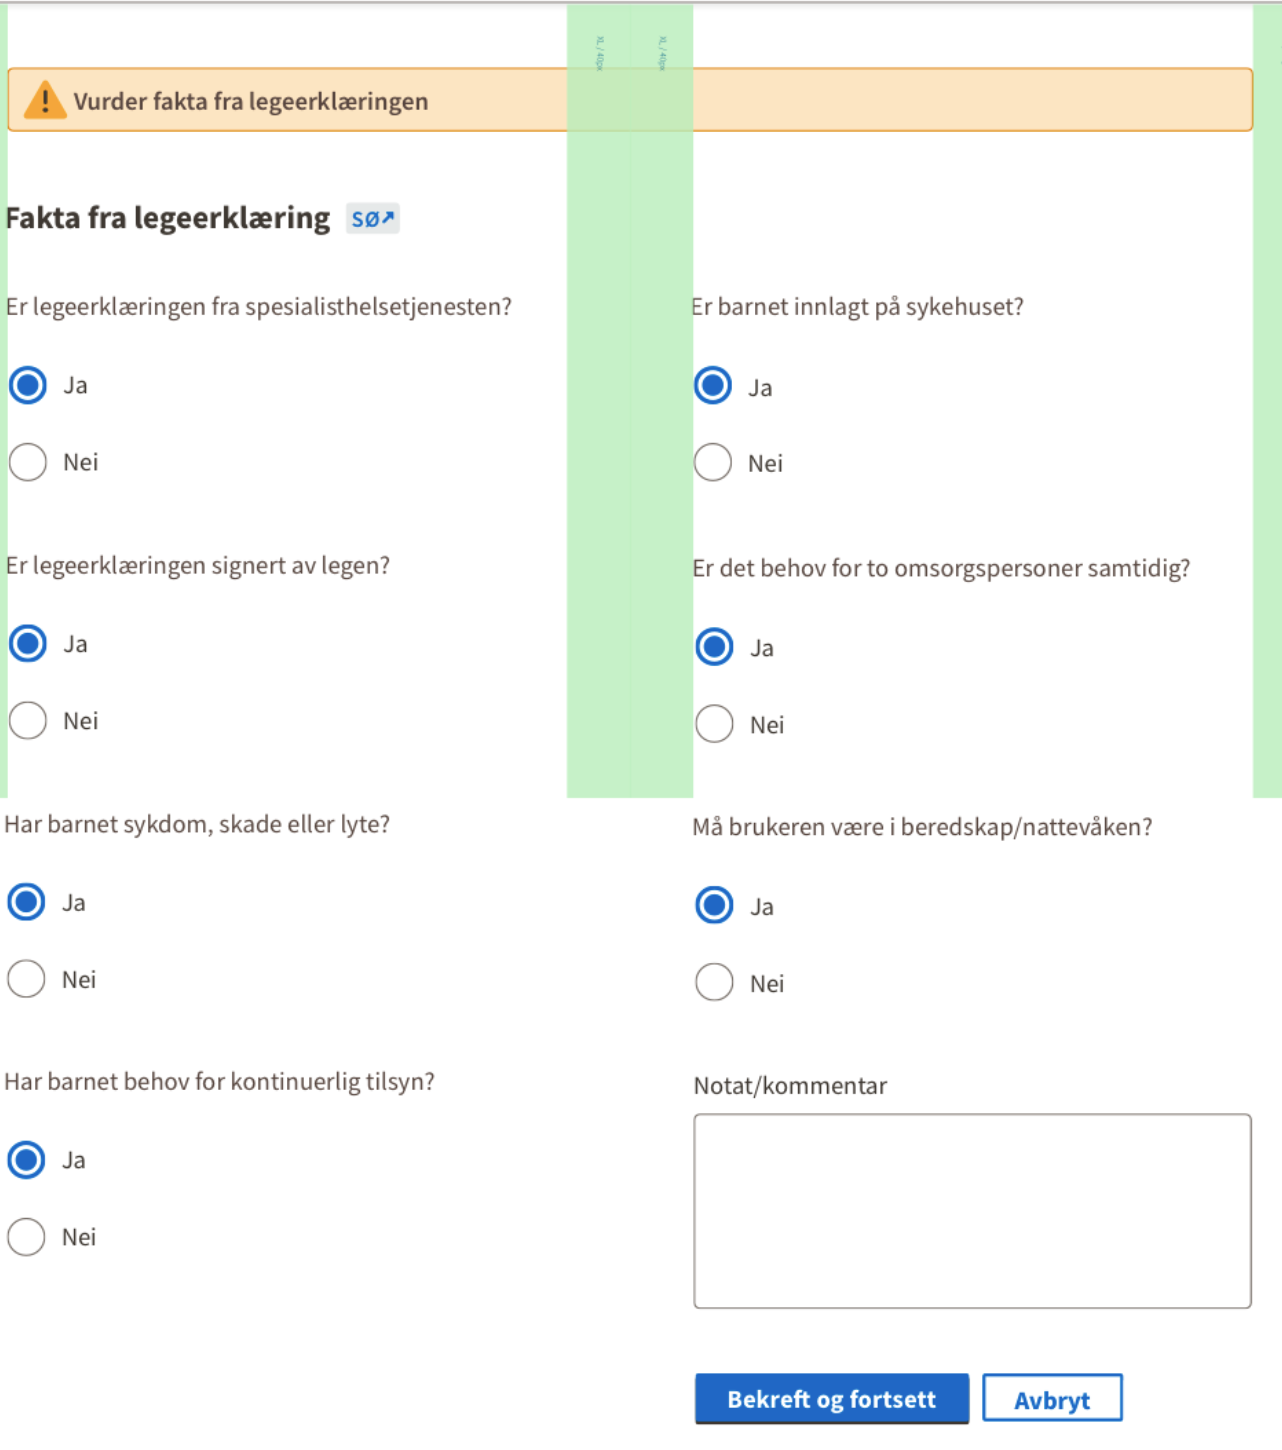
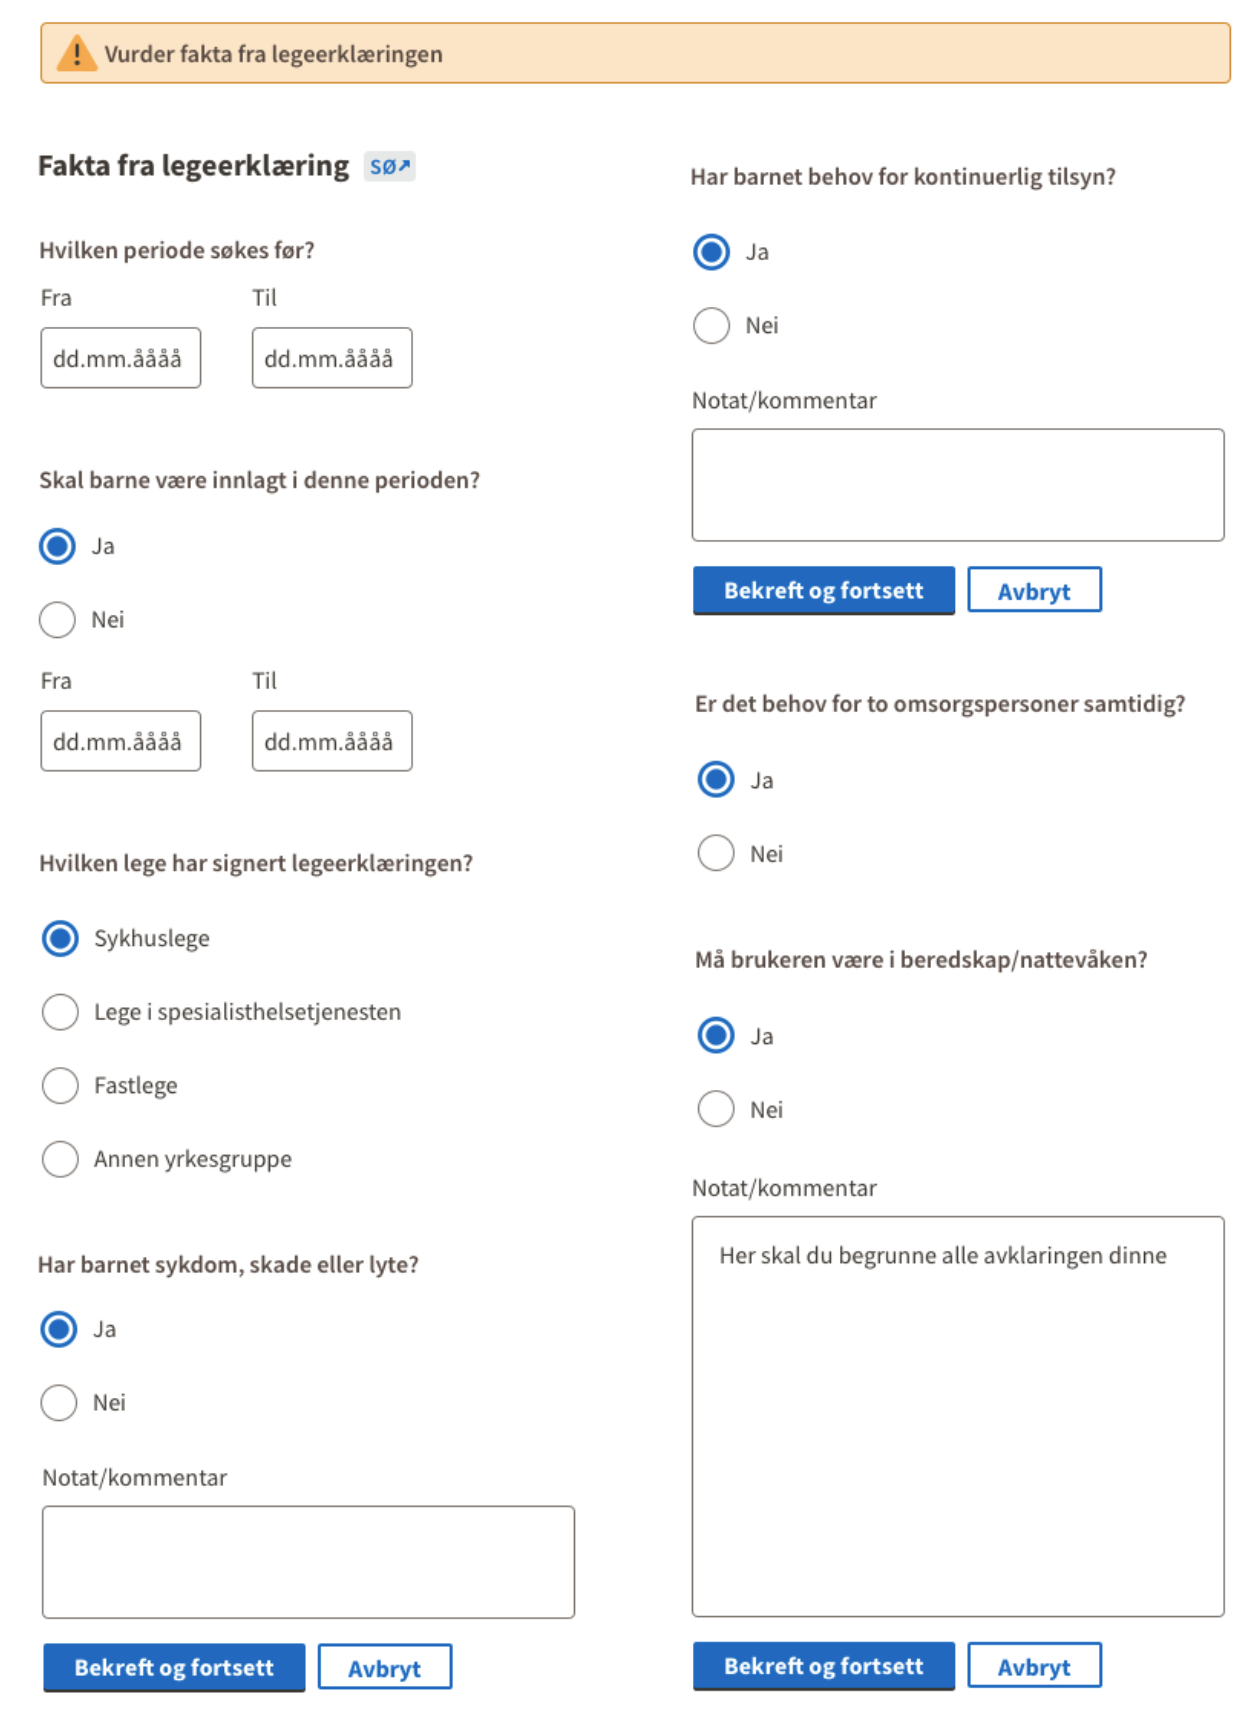
oppdaterer skisser

diff --git a/packages/fp-behandling-forstegang-og-revurdering/src/fakta/components/FaktaPanel.jsx b/packages/fp-behandling-forstegang-og-revurdering/src/fakta/components/FaktaPanel.jsx
@@ -19,7 +19,7 @@ import { featureToggle } from '@fpsak-frontend/fp-felles';
 import vilkarType, { adopsjonsvilkarene } from '@fpsak-frontend/kodeverk/src/vilkarType';
 import aksjonspunktCodes from '@fpsak-frontend/kodeverk/src/aksjonspunktCodes';
 import fagsakYtelseType from '@fpsak-frontend/kodeverk/src/fagsakYtelseType';
-
+import MedisinskVilkarFaktaIndex from '../../../../fakta-medisinsk-vilkar';
 import behandlingSelectors from '../../selectors/forsteOgRevBehandlingSelectors';
 import { getOpenInfoPanels } from '../duckFaktaForstegangOgRev';
 import {
@@ -158,6 +158,7 @@ export const FaktaPanel = ({
       />
 
       <OmsorgenForFaktaIndex />
+      <MedisinskVilkarFaktaIndex />
 
       <DataFetcherWithCache
         behandlingVersjon={1}

diff --git a/packages/fp-behandling-forstegang-og-revurdering/src/behandlingsprosess/definition/foreldrepengerBpDefinition.jsx b/packages/fp-behandling-forstegang-og-revurdering/src/behandlingsprosess/definition/foreldrepengerBpDefinition.jsx
@@ -47,9 +47,6 @@ const foreldrepengerBuilders = [
       ac.OVERSTYR_FODSELSVILKAR, ac.OVERSTYR_FODSELSVILKAR_FAR_MEDMOR, ac.AVKLAR_OM_STONAD_GJELDER_SAMME_BARN,
       ac.AVKLAR_OM_STONAD_TIL_ANNEN_FORELDER_GJELDER_SAMME_BARN,
     ),
-  new BehandlingspunktProperties.Builder(bpc.MEDISINSK_VILKÅR, 'MedisinskVilkar')
-    .withVisibilityWhen(() => true)
-    .withStatus(() => vut.OPPFYLT),
   new BehandlingspunktProperties.Builder(bpc.ADOPSJON, 'Adopsjonsvilkaret')
     .withVilkarTypes(vt.ADOPSJONSVILKARET_FORELDREPENGER)
     .withAksjonspunktCodes(

diff --git a/packages/fakta-medisinsk-vilkar/index.jsx b/packages/fakta-medisinsk-vilkar/index.jsx
@@ -1,0 +1,11 @@
+import React from 'react';
+import Ekspanderbartpanel from 'nav-frontend-ekspanderbartpanel';
+import medisinskVilkarSkisse from '@fpsak-frontend/assets/images/MedisinskVilkar.png';
+
+const MedisinskVilkarFaktaIndex = () => (
+  <Ekspanderbartpanel tittel="Fakta om medisinsk vilkår" style={{ marginTop: '8px' }}>
+    <img src={medisinskVilkarSkisse} alt="Skisse" style={{ maxWidth: '850px' }} />
+  </Ekspanderbartpanel>
+);
+
+export default MedisinskVilkarFaktaIndex;

diff --git a/packages/fp-felles/src/behandlingspunktCodes.jsx b/packages/fp-felles/src/behandlingspunktCodes.jsx
@@ -31,7 +31,6 @@ const behandlingspunktCodes = {
   ANKEBEHANDLING: 'ankebehandling',
   ANKE_MERKNADER: 'ankemerknader',
   ANKE_RESULTAT: 'ankeresultat',
-  MEDISINSK_VILKÅR: 'medisinsk-vilkar',
 };
 
 export default behandlingspunktCodes;
